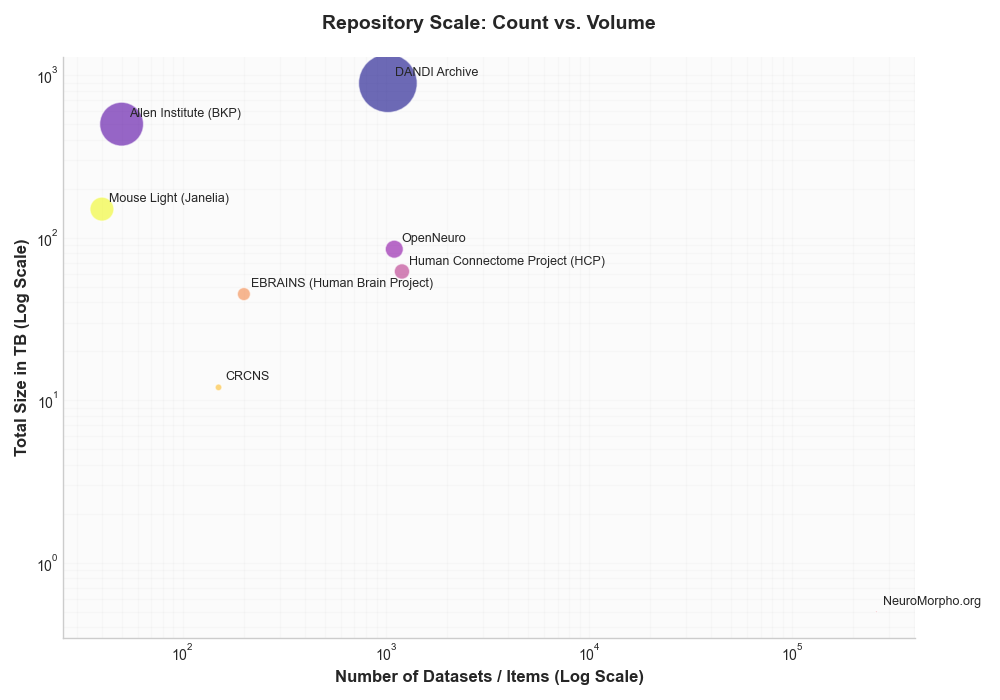
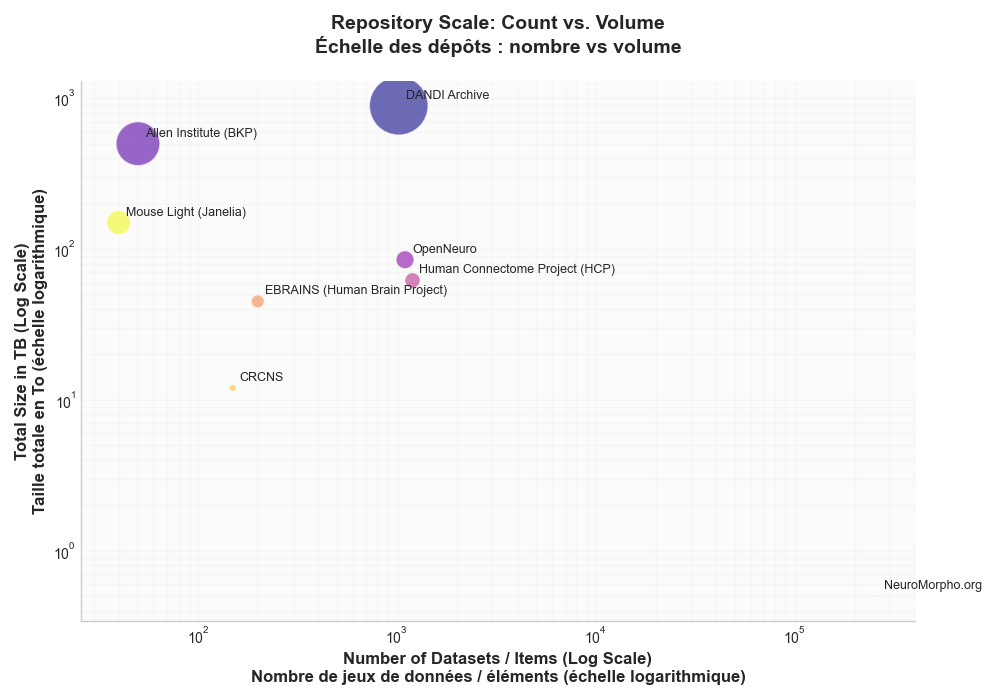
made it bilingual

diff --git a/scripts/plot_metrics.py b/scripts/plot_metrics.py
@@ -2,6 +2,10 @@ import os
 import pandas as pd
 import numpy as np
 
+def bilingual(en: str, fr: str) -> str:
+    """Stacked English / French text for titles & labels."""
+    return f"{en}\n{fr}"
+
 # Create directory structure
 os.makedirs('data', exist_ok=True)
 os.makedirs('outputs', exist_ok=True)
@@ -65,9 +69,22 @@ def plot_largest_by_size_v2(df):
     colors = plt.cm.viridis(np.linspace(0.3, 0.8, len(d)))
     bars = ax.barh(wrap_labels(d['label']), d['total_tb'], color=colors, edgecolor='white', height=0.7)
     
-    ax.set_xlabel("Storage Volume (Terabytes)", fontsize=12)
-    ax.set_title("The Titans of Neuroscience Data (2026)", pad=20)
-    
+    ax.set_xlabel(
+    bilingual(
+        "Storage Volume (Terabytes)",
+        "Volume de stockage (téraoctets)"
+    ),
+    fontsize=12
+    )
+
+    ax.set_title(
+        bilingual(
+            "The Titans of Neuroscience Data (2026)",
+            "Les géants des données en neurosciences (2026)"
+        ),
+        pad=20
+    )
+
     # Add values on bars
     for bar in bars:
         width = bar.get_width()
@@ -99,8 +116,15 @@ def plot_modality_pie(df):
     fig.gca().add_artist(centre_circle)
     
     plt.setp(autotexts, size=9, weight="bold", color="black")
-    ax.set_title("Neuroscience Data Landscape by Modality\n(Share of Total TB)", fontsize=14, pad=10)
-    
+    ax.set_title(
+        bilingual(
+            "Neuroscience Data Landscape by Modality\n(Share of Total TB)",
+            "Panorama des données en neurosciences par modalité\n(Part du volume total en To)"
+        ),
+        fontsize=14,
+        pad=10
+)
+
     plt.tight_layout()
     plt.savefig('outputs/modality_distribution_pie.png')
 
@@ -121,10 +145,30 @@ def plot_count_vs_size_bubble(df):
     
     ax.set_xscale('log')
     ax.set_yscale('log')
-    ax.set_xlabel("Number of Datasets / Items (Log Scale)", fontsize=12)
-    ax.set_ylabel("Total Size in TB (Log Scale)", fontsize=12)
-    ax.set_title("Repository Scale: Count vs. Volume", pad=20)
-    
+    ax.set_xlabel(
+        bilingual(
+            "Number of Datasets / Items (Log Scale)",
+            "Nombre de jeux de données / éléments (échelle logarithmique)"
+        ),
+        fontsize=12
+    )
+
+    ax.set_ylabel(
+        bilingual(
+            "Total Size in TB (Log Scale)",
+            "Taille totale en To (échelle logarithmique)"
+        ),
+        fontsize=12
+    )
+
+    ax.set_title(
+        bilingual(
+            "Repository Scale: Count vs. Volume",
+            "Échelle des dépôts : nombre vs volume"
+        ),
+        pad=20
+    )
+
     for i, txt in enumerate(df['label']):
         ax.annotate(txt, (df['dataset_count'][i], df['total_tb'][i]), 
                     xytext=(5,5), textcoords='offset points', fontsize=9)
